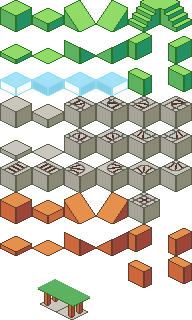
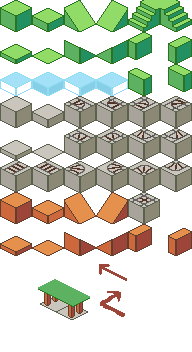
Add extremely scuffed switch arrow assets

diff --git a/scripts/Root.cs b/scripts/Root.cs
@@ -75,8 +75,13 @@ public partial class Root : Control
             if (keyEvent.Keycode == Key.Space && keyEvent.Pressed)
             {
                 testTrain.ToggleBrake();
+                return;
             }
-            return;
+            if (keyEvent.Keycode == Key.Shift && keyEvent.Pressed)
+            {
+                switchManager.ToggleSwitch(0);
+                return;
+            }
         }
     }
 }
